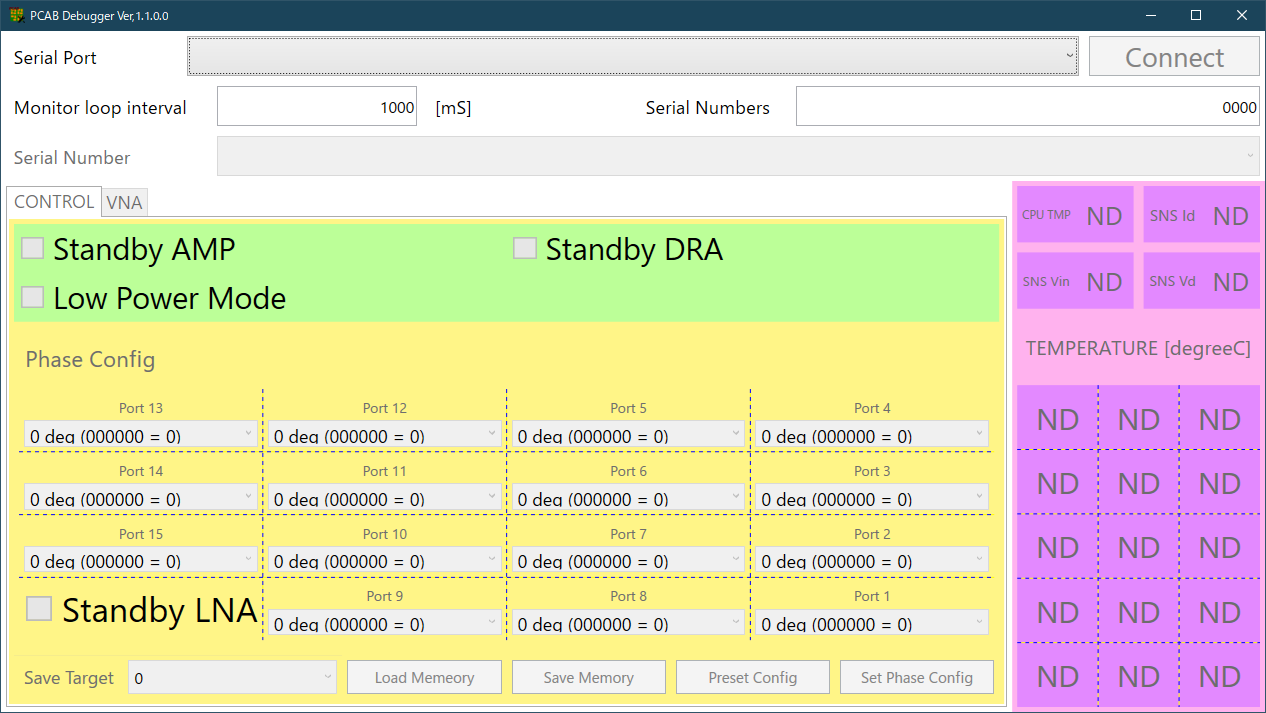
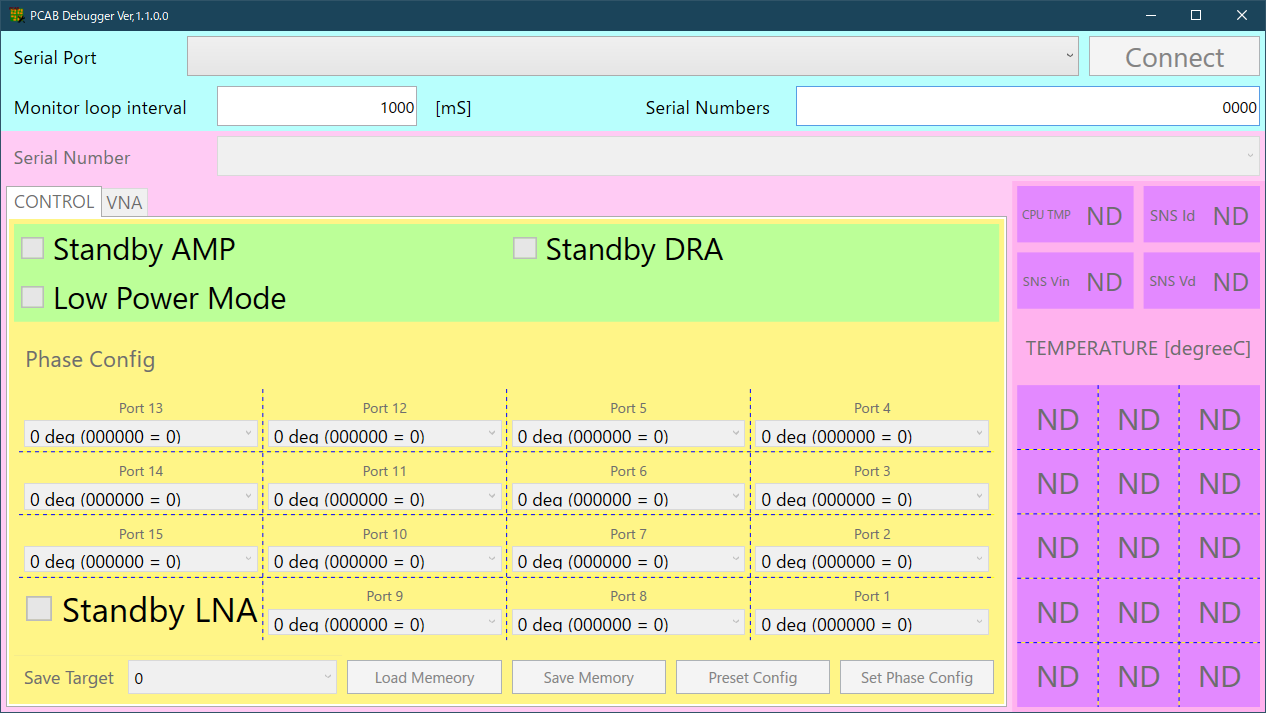
v1.1.0

Changed region(s): [[0.0, 0.0309, 1.0, 1.0]]

diff --git a/PCAB_Debugger_GUI/winMain.xaml b/PCAB_Debugger_GUI/winMain.xaml
@@ -14,7 +14,7 @@
             <RowDefinition Height="100"/>
             <RowDefinition Height="8*"/>
         </Grid.RowDefinitions>
-        <Grid Grid.Row="0">
+        <Grid Grid.Row="0" Background="#FFB8FFFD" >
             <Grid.RowDefinitions>
                 <RowDefinition Height="1*"/>
                 <RowDefinition Height="1*"/>
@@ -54,7 +54,7 @@
                 </Grid>
             </Grid>
         </Grid>
-        <Grid Grid.Row="1" x:Name="CONTL_GRID" IsEnabled="False">
+        <Grid Grid.Row="1" x:Name="CONTL_GRID" IsEnabled="False" Background="#FFFFCBF4">
             <Grid.RowDefinitions>
                 <RowDefinition Height="50"/>
                 <RowDefinition Height="1*"/>
@@ -260,7 +260,7 @@
                         </Grid>
                     </TabItem>
                     <TabItem Header="VNA" IsEnabled="True">
-                        <Grid Background="#FFE5E5E5">
+                        <Grid Background="#FFBBC4F5">
                             <Grid.RowDefinitions>
                                 <RowDefinition Height="1*"/>
                                 <RowDefinition Height="8*"/>

diff --git a/PCAB_Debugger_GUI/README.md b/PCAB_Debugger_GUI/README.md
@@ -3,5 +3,16 @@ Control GUI program.
 
 ## How to use
 
-<img src="https://github.com/mw-eng/PCAB_Debugger/blob/master/PCAB_Debugger_GUI/assets/UI1.png?raw=true" width="300px">
+### Main window
+<img src="https://github.com/mw-eng/PCAB_Debugger/blob/master/PCAB_Debugger_GUI/assets/UI1.png?raw=true" width="300px"><br>
+<span style="background-color:#FFB8FFFD;color:#000000">1. </span>
+1.1. Serial Port  
+
+2. Monitor loop 
+
+3. Serial Numbers
+
+
+
+
 <img src="https://github.com/mw-eng/PCAB_Debugger/blob/master/PCAB_Debugger_GUI/assets/UI2.png?raw=true" width="300px">
